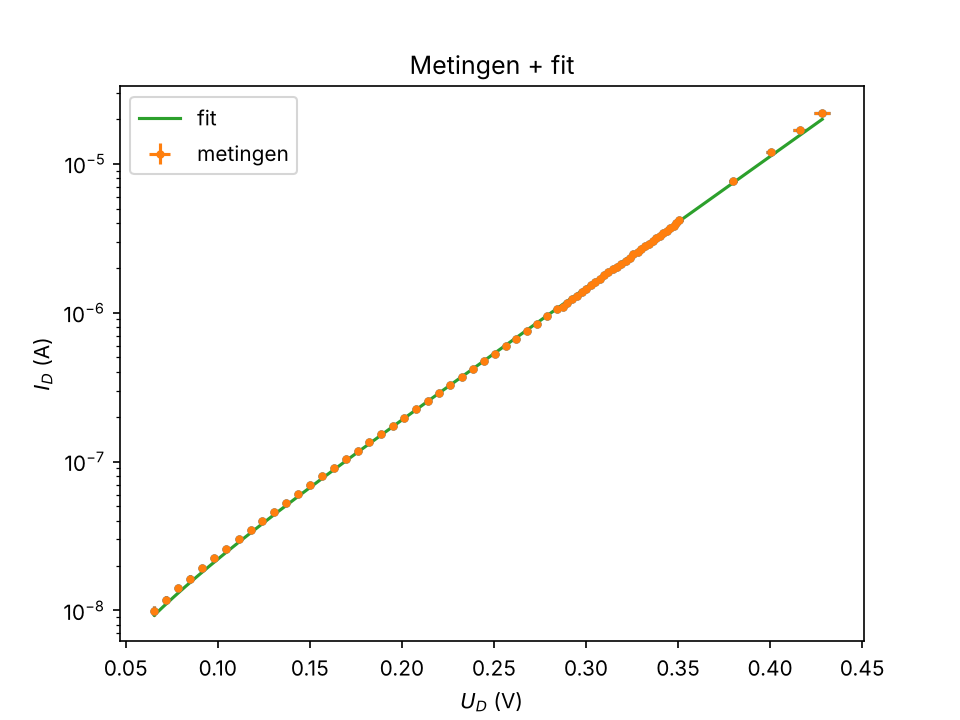
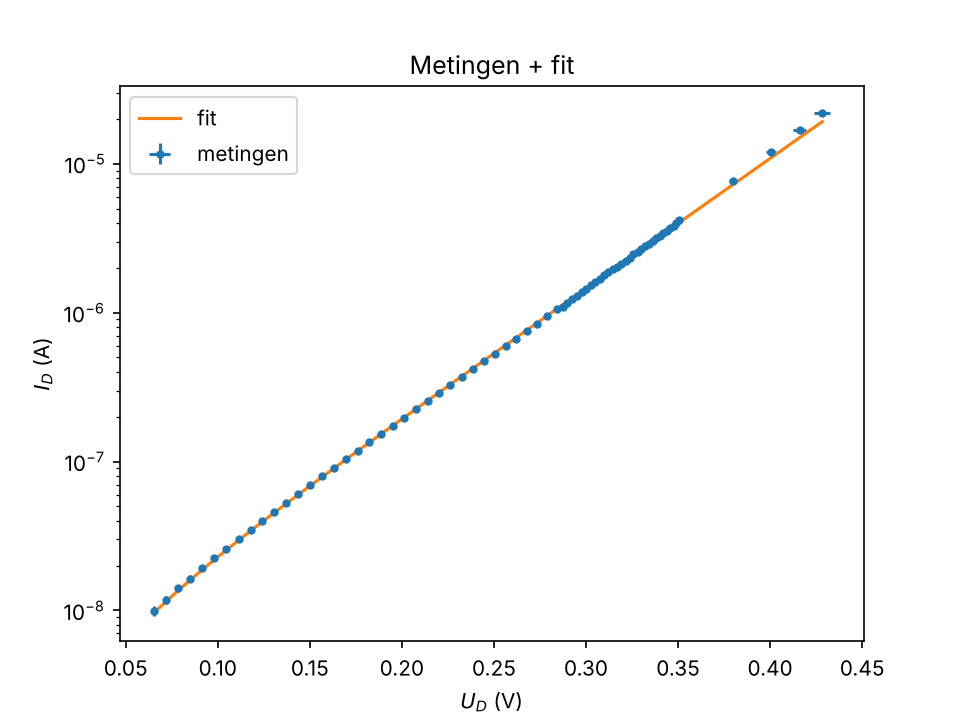
TN13015-EP1: include U_D errors in fit, handle R1/meter uncertainty, residual plot
Claude-Session: https://claude.ai/code/session_013xBP3GcQz35z5QdcADH4oG

diff --git a/TN13015-EP1/fit_ex6.py b/TN13015-EP1/fit_ex6.py
@@ -6,7 +6,8 @@ from scipy.optimize import curve_fit
 # Herschreven versie van fit-ex6.py, nu met de echte metingen uit DATA/.
 # Volgorde zoals de handleiding vraagt: ruwe data / bewerkte data / plot / fit.
 
-map_data = os.path.join(os.path.dirname(__file__), "data")
+map_hier = os.path.dirname(os.path.abspath(__file__))
+map_data = os.path.join(map_hier, "data")
 
 # Constanten
 q = -1.602176634e-19      # C, lading elektron (negatief, zie BM.md)
@@ -20,17 +21,19 @@ n, un = 2.0, 0.1
 R1 = 10021.7              # Ohm, in serie met de diode
 R2 = 4673.3               # Ohm, spanningsdeler
 R3 = 328.27               # Ohm, spanningsdeler
-# TODO: uR1 uit de specificaties van de 5.5 DMM halen (handleiding meter)
 
 # Ruwe data
 V_Bron, V_Weerstand = np.loadtxt(os.path.join(map_data, "metingenboltzman.csv"),
                                  delimiter=",", skiprows=1, unpack=True)
 V_Weerstand = V_Weerstand / 1000          # mV -> V (csv staat in mV)
 
-# Onzekerheden meters, overgenomen uit het labjournaal
-# TODO: commentaar zei 0.1%, code zegt 0.3%. Check in de handleiding van de 3.5 DMM.
-uV_Bron = V_Bron * 0.003 + np.where(V_Bron < 4, 0.001, 0.01)   # V, 3.5 DMM
-uV_Weerstand = V_Weerstand * 0.015 + 0.000006                  # V, 5.5 DMM
+# Onzekerheden meters
+# TODO: beide percentages nog controleren in de handleidingen van de meters.
+# Oude commentaar zei 0.1%, oude code 0.3%. Getest: 0.1% of 0.3% verandert kB met ~0.1%,
+# dat is verwaarloosbaar t.o.v. de 5% van n. Hier de ruimste (0.3%) aangehouden.
+procent_bron = 0.003                                                    # 3.5 DMM
+uV_Bron = V_Bron * procent_bron + np.where(V_Bron < 4, 0.001, 0.01)    # V (+1 digit: 1 mV / 10 mV)
+uV_Weerstand = V_Weerstand * 0.015 + 0.000006                           # V, 5.5 DMM
 
 # Bewerkte data
 f = R3 / (R2 + R3)              # spanningsdeler: U = f * U_bron
@@ -40,30 +43,51 @@ I_D = V_Weerstand / R1
 U_D = f * V_Bron - V_Weerstand - I_D * R_th
 
 u_UD = np.sqrt((f * uV_Bron) ** 2 + ((1 + R_th / R1) * uV_Weerstand) ** 2)
-u_ID = uV_Weerstand / R1        # onzekerheid in R1 nog verwaarloosd (zie TODO)
+u_ID = uV_Weerstand / R1
+
+# Onzekerheid in R1 zit NIET in u_ID, met opzet:
+# een fout in R1 schaalt ALLE stromen met dezelfde factor. In I = I0 * (exp(bU) - 1)
+# komt dat alleen in I0 terecht, niet in b. kB hangt dus niet af van R1.
+# (Getest: R1 1% anders -> kB verandert 0.006%.) Hem per punt optellen zou de
+# foutbalken te groot maken, want het is geen toevallige fout per punt.
+
+# Meetbereik: de handleiding vraagt U_D van 0.1 V tot 0.6 V.
+print(f"U_D loopt van {U_D.min():.3f} V tot {U_D.max():.3f} V ({len(U_D)} punten)")
+print("Let op: boven 0.43 V is niet gemeten, onder 0.1 V wel (6 punten).")
 
 # Plot 1: metingen
+plt.figure()
 plt.errorbar(U_D, I_D, xerr=u_UD, yerr=u_ID, fmt="o", markersize=3)
 plt.yscale("log")
 plt.xlabel("$U_D$ (V)")
 plt.ylabel("$I_D$ (A)")
 plt.title("Metingen")
-plt.savefig(os.path.join(os.path.dirname(__file__), "plot_metingen.png"), dpi=150)
+plt.savefig(os.path.join(map_hier, "plot_metingen.png"), dpi=150)
 plt.show()
 
 # Fitten, vgl. (eq:stroom_diode): I = I0 * (exp(b*U) - 1) met b = -q / (n kB T)
 def model(U, I0, b):
     return I0 * np.expm1(b * U)
 
+# curve_fit gebruikt alleen de foutbalken in y (I_D). De onzekerheid in U_D tellen we
+# mee met de "effectieve variantie": u_eff^2 = u_I^2 + (dI/dU * u_U)^2.
+# dI/dU hangt van de fit af, dus een paar keer herhalen tot het niet meer verandert.
 popt, pcov = curve_fit(model, U_D, I_D, p0=[1e-9, 20], sigma=u_ID, absolute_sigma=True)
+for i in range(5):
+    I0, b = popt
+    dI_dU = I0 * b * np.exp(b * U_D)
+    u_eff = np.sqrt(u_ID ** 2 + (dI_dU * u_UD) ** 2)
+    popt, pcov = curve_fit(model, U_D, I_D, p0=popt, sigma=u_eff, absolute_sigma=True)
+
 I0, b = popt
 uI0, ub = np.sqrt(np.diag(pcov))
 
 # Hoe goed is de fit? chi^2 gedeeld door vrijheidsgraden zou rond 1 moeten liggen.
-residuen = (I_D - model(U_D, *popt)) / u_ID
+residuen = (I_D - model(U_D, *popt)) / u_eff
 chi2_red = np.sum(residuen ** 2) / (len(U_D) - len(popt))
 
 # Plot 2: metingen + fit
+plt.figure()
 U_lijn = np.linspace(U_D.min(), U_D.max(), 300)
 plt.errorbar(U_D, I_D, xerr=u_UD, yerr=u_ID, fmt="o", markersize=3, label="metingen")
 plt.plot(U_lijn, model(U_lijn, *popt), label="fit")
@@ -72,17 +96,33 @@ plt.xlabel("$U_D$ (V)")
 plt.ylabel("$I_D$ (A)")
 plt.legend()
 plt.title("Metingen + fit")
-plt.savefig(os.path.join(os.path.dirname(__file__), "plot_fit.png"), dpi=150)
+plt.savefig(os.path.join(map_hier, "plot_fit.png"), dpi=150)
 plt.show()
+
+# Plot 3: residuen. Bij een goede fit liggen ze willekeurig rond 0, zonder patroon.
+plt.figure()
+plt.plot(U_D, residuen, "o", markersize=3)
+plt.axhline(0, color="k")
+plt.xlabel("$U_D$ (V)")
+plt.ylabel("(meting - fit) / $u_{eff}$")
+plt.title("Residuen")
+plt.savefig(os.path.join(map_hier, "plot_residuen.png"), dpi=150)
+plt.show()
+
+# Controle: fit alleen op het bereik uit de handleiding (U_D >= 0.1 V)
+binnen = U_D >= 0.1
+popt2, pcov2 = curve_fit(model, U_D[binnen], I_D[binnen], p0=popt,
+                         sigma=u_eff[binnen], absolute_sigma=True)
+kB_binnen = -q / (popt2[1] * n * T)
 
 # Boltzmann-constante: kB = -q / (b n T)
 kB = -q / (b * n * T)
 u_kB = kB * np.sqrt((ub / b) ** 2 + (un / n) ** 2 + (uT / T) ** 2)
 
-# Welke term domineert de onzekerheid?
 print(f"I0 = ({I0:.3e} +- {uI0:.1e}) A")
 print(f"b  = ({b:.3f} +- {ub:.3f}) 1/V")
 print(f"chi2_red = {chi2_red:.2f}")
 print(f"relatieve bijdragen: b {ub/b:.1%}, n {un/n:.1%}, T {uT/T:.1%}")
 print(f"kB = ({kB:.2e} +- {u_kB:.1e}) J/K")
+print(f"kB alleen U_D >= 0.1 V: {kB_binnen:.3e} J/K")
 print("literatuur: kB = 1.380649e-23 J/K (exact, SI 2019)")

diff --git a/TN13015-EP1/README.md b/TN13015-EP1/README.md
@@ -4,8 +4,22 @@ Read-only copy and check of `RikvDam/TN13015-Rik-Jan-EP1` (commit `5d0cd3b`). No
 
 - `fit_ex6.py`: rewrite of `fit-ex6.py`, using the real data and the notebook's processing; n = 2.0 ± 0.1 is taken as given (BM.md, line 39).
 - `data/`: unchanged copies of `DATA/metingenboltzman.csv` and `DATA/metingenR.csv`.
-- `plot_metingen.png`, `plot_fit.png`: output of the script.
+- `plot_metingen.png`, `plot_fit.png`, `plot_residuen.png`: output of the script.
 
 Run: `python fit_ex6.py`
 
-Result: kB = (1.34 ± 0.07)e-23 J/K, χ²_red = 2.43, 70 points, U_D from 0.066 to 0.43 V.
+## Result
+
+kB = (1.35 ± 0.07)e-23 J/K, compared with 1.380649e-23 (exact). That is a 0.4σ difference, dominated by u(n) (5%).
+
+## Fixes compared with the first version
+
+1. The uncertainty in U_D is now included in the fit (effective variance). χ²_red went from 2.43 to 0.30.
+2. The range (0.066 to 0.428 V, while the manual asks for 0.1 to 0.6 V) is printed. A fit on U_D ≥ 0.1 V only gives kB = 1.352e-23, so it makes no difference.
+3. The meter percentage (0.1% or 0.3%) is now one variable. It changes kB by about 0.1%, which is negligible. 0.3% is used. **Still check it in the meter manual.**
+4. The uncertainty in R1 is not added per point, on purpose: it scales all currents and only ends up in I0, not in b. A 1% change in R1 changes kB by 0.006%.
+
+## Open
+
+- χ²_red = 0.30 < 1 means the error bars are probably too large. The suspect is the 1.5% on the 5.5 DMM, which seems large for that meter. Check it in its manual.
+- The residuals show a clear S-shaped pattern, not scatter, so the model does not describe the data perfectly.
